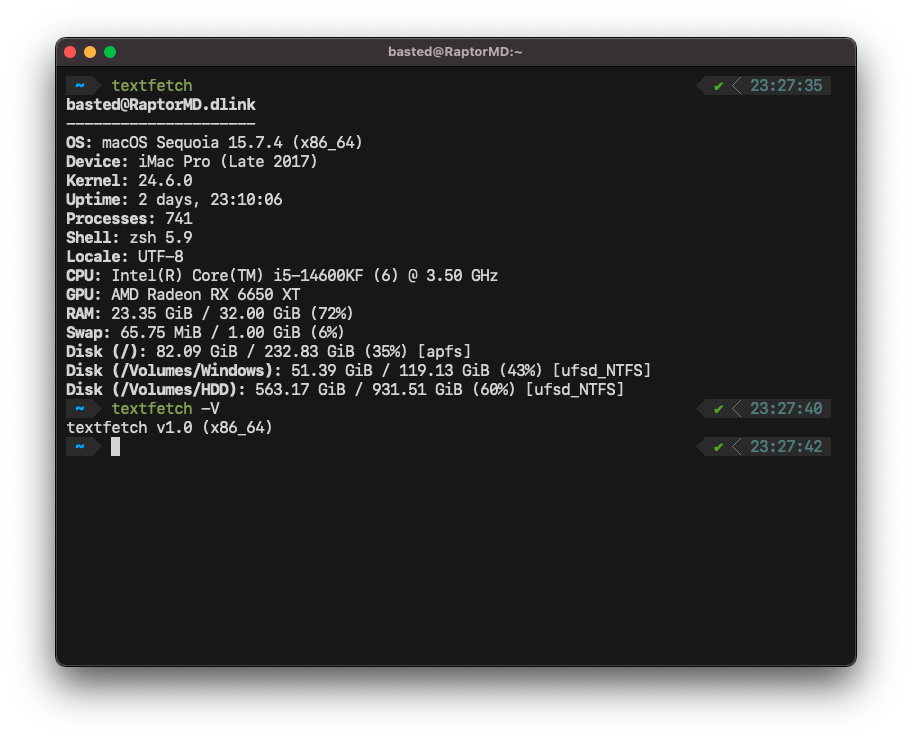
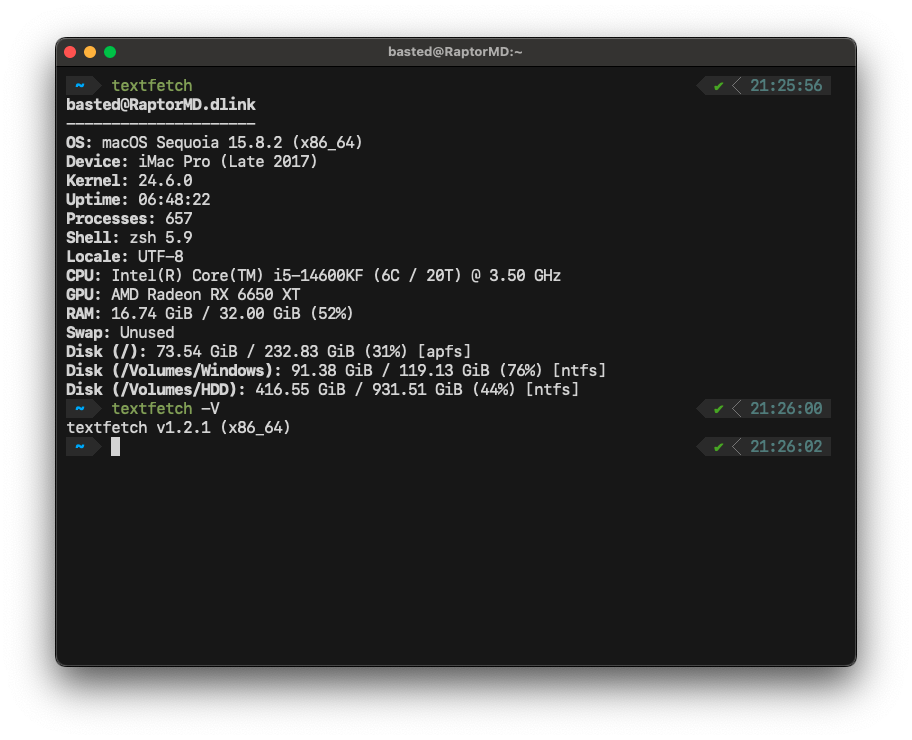
docs(readme): explain battery health and update demo screenshot
Document the charge-versus-health distinction and the Linux thresholds
for the Good, Fair, Poor, and Unknown labels. Refresh the demo image and
add a caption showing the v1.2.1 output.

diff --git a/README.md b/README.md
@@ -18,6 +18,7 @@
 </p>
 <p align="center">
     <a href="#features">Features</a> •
+    <a href="#battery-health">Battery health</a> •
     <a href="#supported-platforms">Supported Platforms</a> •
     <a href="#build-and-run">Build and run</a> •
     <a href="#license">License</a>
@@ -29,6 +30,8 @@ A minimal, fast system information tool with no third-party dependencies. Design
 <br>
 <p align="center">
   <img src=".github/assets/demo.png" alt="textfetch demo" width="600"/>
+  <br>
+  <em>textfetch v1.2.1 on macOS</em>
 </p>
 <br>
 
@@ -40,6 +43,21 @@ A minimal, fast system information tool with no third-party dependencies. Design
 - **Memory & Storage**: RAM/Swap usage and mounted filesystems with usage, size, and filesystem type.
 - **Software**: OS/distribution, kernel, uptime, shell, locale, process count, and device model.
 - **Zero bloat**: No third-party dependencies. Written in C99 with POSIX.1-2008 and platform APIs. Android/Termux uses the system Vulkan loader already present on the device.
+
+## Battery health
+
+The `Battery` line shows the current charge level, charging status, and a health label. Charge and health are different measurements: a battery can be charged to 100% while its health is `Fair` or `Poor`, because health describes how much capacity the battery has left compared with when it was new.
+
+On Linux, `textfetch` estimates health from the ratio of the current full-charge capacity (`energy_full` or `charge_full`) to the original design capacity (`energy_full_design` or `charge_full_design`):
+
+| Health | Meaning |
+| --- | --- |
+| `Good` | The battery still holds at least 80% of its design capacity. |
+| `Fair` | The battery holds between 60% and 79% of its design capacity. |
+| `Poor` | The battery holds less than 60% of its design capacity. |
+| `Unknown` | The kernel does not expose the counters needed to estimate health. |
+
+On macOS, the label comes from IOKit's `kIOPSBatteryHealthKey`, so it reflects Apple's own battery health classification.
 
 ## Supported Platforms
 
